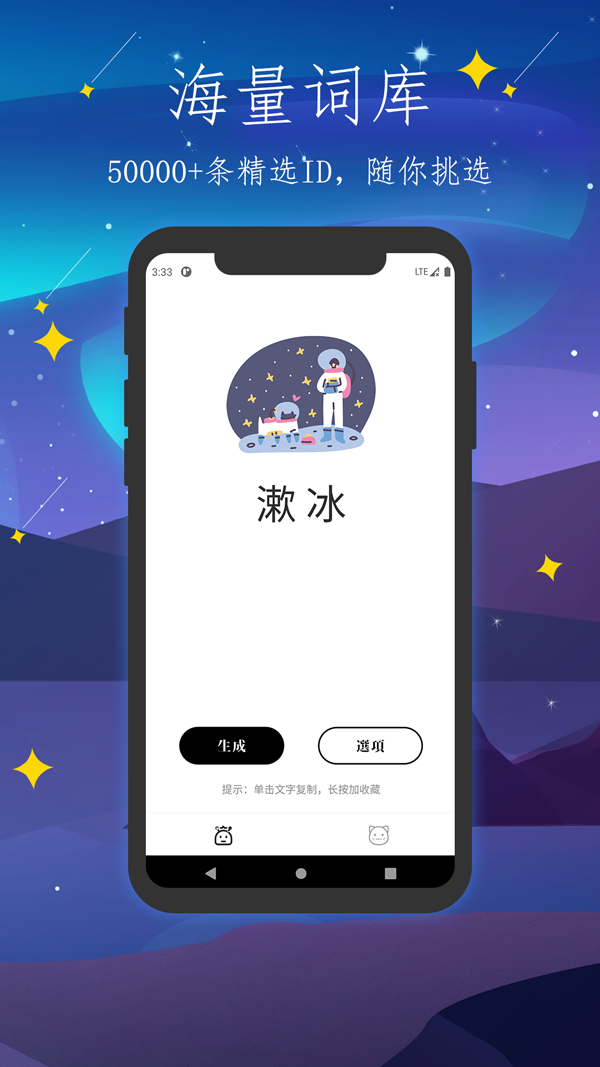
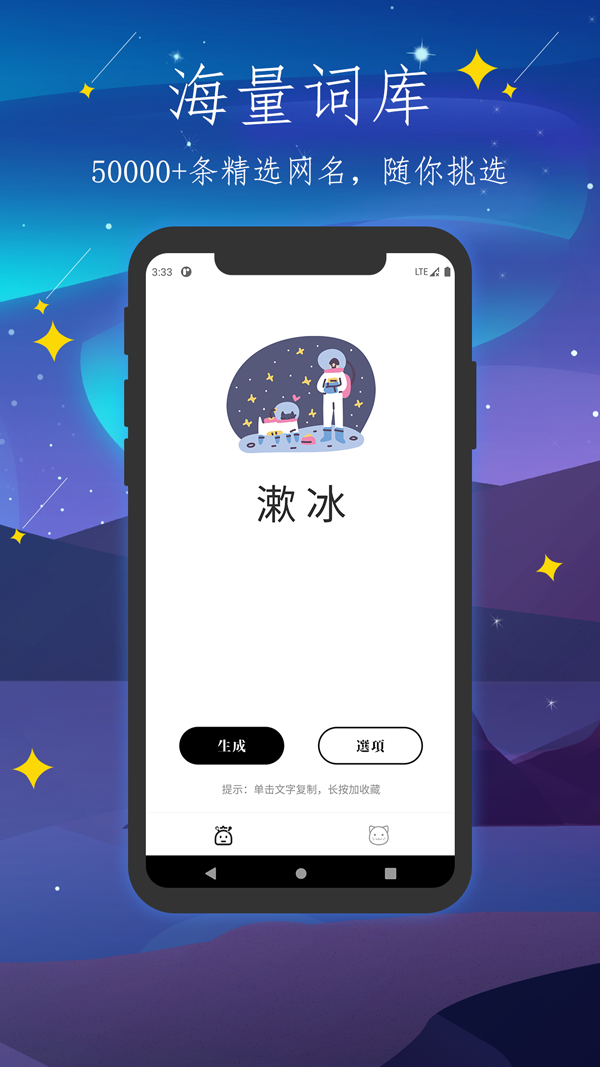
feat: 更新展示图片及文案

Changed region(s): [[0.27, 0.1237, 0.57, 0.1856], [0.6, 0.1237, 0.84, 0.1856], [0.15, 0.1546, 0.21, 0.1856]]

diff --git a/src/views/Home.vue b/src/views/Home.vue
@@ -3,7 +3,7 @@
     <header class="header">
       <div class="logo">
         <a href="https://www.bianzizai.com">
-          <img src="../assets/img/logo.png" alt="彼岸自在 最懂你的ID生成器" />
+          <img src="../assets/img/logo.png" alt="彼岸自在 最懂你的网名生成器" />
           <span>彼岸自在</span>
         </a>
       </div>
@@ -45,23 +45,23 @@
           <a href="https://www.bianzizai.com">
             <img
               src="../assets/img/bianzizai.png"
-              alt="彼岸自在 最懂你的ID生成器"
+              alt="彼岸自在 最懂你的网名生成器"
             />
           </a>
         </h1>
-        <p>最懂你的ID生成器</p>
+        <p>最懂你的网名生成器</p>
         <div class="android">
           <img src="../assets/img/android.png" alt="彼岸自在" />
         </div>
       </section>
       <section class="second">
         <h5>
-          彼岸自在是一个功能强大的ID生成器（安卓端），它可以根据您选择类型（中国风和日式）来生成您指定字数的ID。我们的ID库极其庞大，您一定可以从中找到属于您的独一无二的专属ID！登陆之后还将享有更多功能！
+          彼岸自在是一个功能强大的网名生成器APP（安卓端），它可以根据您选择类型（中国风和日式）来生成您指定字数的网名。我们的词库极其庞大，您一定可以从中找到属于您的独一无二的专属网名！登陆之后还将享有更多功能！
         </h5>
         <div class="swiper">
           <swiper ref="mySwiper" :options="swiperOptions">
             <swiper-slide v-for="(item, key) in displayImg" :key="key">
-              <img :src="item.img" alt="彼岸自在 最懂你的ID生成器" />
+              <img :src="item.img" alt="彼岸自在 最懂你的网名生成器" />
             </swiper-slide>
             <div class="swiper-pagination" slot="pagination"></div>
           </swiper>

diff --git a/public/index.html b/public/index.html
@@ -5,16 +5,16 @@
     <meta http-equiv="X-UA-Compatible" content="IE=edge" />
     <meta name="viewport" content="width=device-width,initial-scale=1.0" />
     <link rel="icon" href="<%= BASE_URL %>favicon.ico" />
-    <title>彼岸自在——最懂你的ID生成器</title>
+    <title>彼岸自在 —— 最懂你的网名生成器</title>
     <meta name="application-name" content="彼岸自在 bianzizai" />
     <meta
       name="keywords"
-      content="彼岸自在,bianzizai,免费,id,生成,网名,在线,中国风,古风,日式,日本,动漫,中二,动画,简约,安卓,苹果,app"
+      content="彼岸自在,bianzizai,网名,免费,id,生成,在线,中国风,古风,日式,日本,动漫,中二,动画,简约,安卓,苹果,app"
     />
     <meta name="author" content="济南槐荫大老师软件开发中心" />
     <meta
       name="description"
-      content="彼岸自在是一个功能强大的ID生成器（安卓端），它可以根据您选择类型（中国风和日式）来生成您指定字数的ID。我们的id库极其庞大，您一定可以从中找到属于您的独一无二的专属ID！登陆之后还将享有更多功能！"
+      content="彼岸自在是一个功能强大的网名生成器（安卓端），它可以根据您选择类型（中国风和日式）来生成您指定字数的网名。我们的id库极其庞大，您一定可以从中找到属于您的独一无二的专属网名！登陆之后还将享有更多功能！"
     />
   </head>
   <body>
